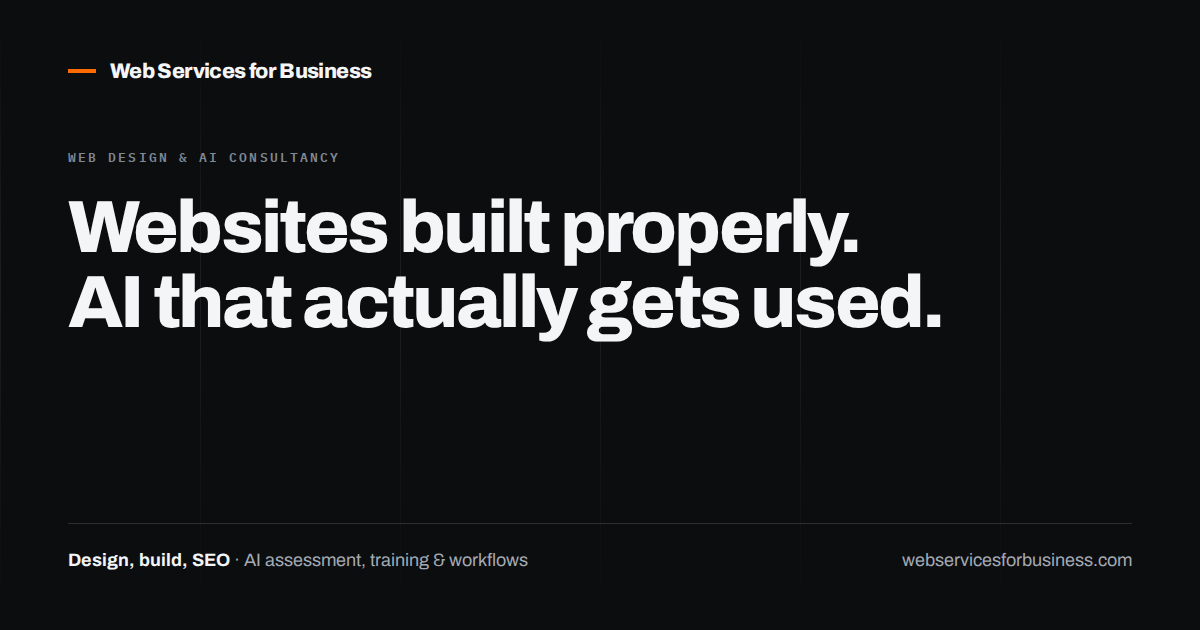
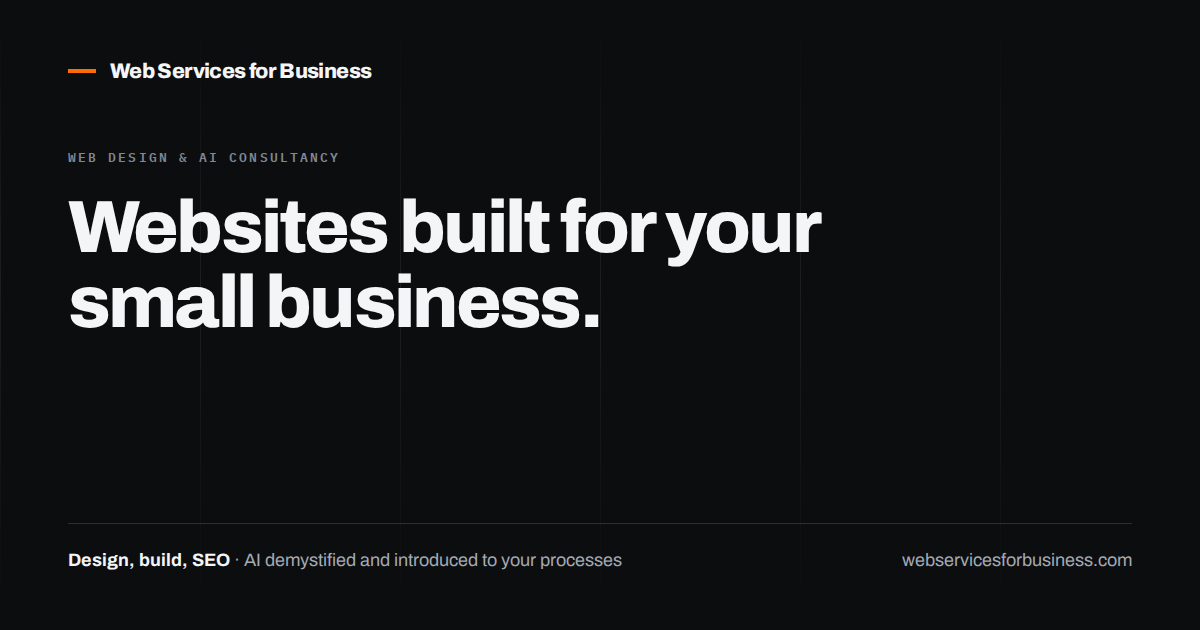
Soften the copy: warmer headline, plainer SEO wording, two lines cut
Copy revisions from Ryan.

- Hero headline: "Websites built properly. AI that actually gets used." ->
  "Websites built for your small business. Help with understanding and using AI."
  The old one read as too aggressive
- Hero subline: "Hand-built sites for businesses that need to be found. AI
  demystified and helpfully introduced to your business and processes."
- "Technical SEO" -> "Technical SEO — we make sure you show up in Google"
- Removed "Two disciplines, one operator." (Services heading)
- Removed "AI work, scoped like engineering." (AI heading)

Where a section heading was removed, its mono eyebrow was promoted to the <h2>
rather than deleted, so the heading hierarchy stays intact and the existing
aria-labelledby references still resolve.

Also carried the new headline into the og:title and twitter:title meta tags and
re-rendered img/og.png, which had the old wording baked in.

The longer headline needed a smaller type scale — .h-xl max 5.1rem -> 4.15rem,
hero max-width 18ch -> 21ch — so it sets in three lines and the CTAs stay above
the fold at 1440x900 instead of being pushed off.

Verified: no horizontal overflow 320-1920px, no console errors, zero WCAG AA
contrast failures, valid JSON-LD, all aria-labelledby targets resolve.

Changed region(s): [[0.0617, 0.3016, 0.8017, 0.5429], [0.2158, 0.8746, 0.5242, 0.9048]]

diff --git a/site/index.html b/site/index.html
@@ -25,7 +25,7 @@
 
 <meta property="og:type" content="website">
 <meta property="og:site_name" content="Web Services for Business">
-<meta property="og:title" content="Websites, built properly. AI that actually gets used.">
+<meta property="og:title" content="Websites built for your small business. Help with understanding and using AI.">
 <meta property="og:description" content="Web design and AI consultancy for growing businesses.">
 <meta property="og:url" content="https://www.webservicesforbusiness.com/">
 <meta property="og:image" content="https://www.webservicesforbusiness.com/img/og.png">
@@ -33,7 +33,7 @@
 <meta property="og:image:height" content="630">
 <meta property="og:image:alt" content="Web Services for Business — websites and practical AI.">
 <meta name="twitter:card" content="summary_large_image">
-<meta name="twitter:title" content="Websites, built properly. AI that actually gets used.">
+<meta name="twitter:title" content="Websites built for your small business. Help with understanding and using AI.">
 <meta name="twitter:description" content="Web design and AI consultancy for growing businesses.">
 <meta name="twitter:image" content="https://www.webservicesforbusiness.com/img/og.png">
 <meta name="theme-color" content="#0C0D0F">
@@ -120,7 +120,7 @@ section[id],#top{scroll-margin-top:5rem}
   text-transform:uppercase}
 .eyebrow{color:var(--text-3)}
 h1,h2,h3{font-weight:800;letter-spacing:-.035em;line-height:1.02}
-.h-xl{font-size:clamp(2.6rem,6.4vw,5.1rem)}
+.h-xl{font-size:clamp(2.1rem,5vw,4.15rem)}
 .h-lg{font-size:clamp(2rem,4vw,3.1rem)}
 .h-md{font-size:clamp(1.25rem,2vw,1.6rem);letter-spacing:-.025em;line-height:1.12}
 .lead{color:var(--text-2);font-size:clamp(1.0625rem,1.5vw,1.25rem);line-height:1.5;max-width:44ch}
@@ -201,7 +201,7 @@ body.locked{overflow:hidden}
   -webkit-mask-image:linear-gradient(180deg,transparent,#000 40%,transparent);
   mask-image:linear-gradient(180deg,transparent,#000 40%,transparent)}
 .hero-in{position:relative;z-index:1}
-.hero h1{margin-top:1.5rem;max-width:18ch}
+.hero h1{margin-top:1.5rem;max-width:21ch}
 .hero .lead{margin-top:1.5rem}
 .hero-ctas{margin-top:2.25rem;display:flex;flex-wrap:wrap;gap:.6rem}
 
@@ -398,8 +398,8 @@ legend{padding:0;margin-bottom:.55rem}
   <div class="hero-grid" aria-hidden="true"></div>
   <div class="wrap hero-in">
     <p class="mono eyebrow rv">Web design &amp; AI consultancy</p>
-    <h1 class="h-xl rv" style="--d:60ms">Websites built properly. AI that actually gets used.</h1>
-    <p class="lead rv" style="--d:120ms">Fast, hand-built sites for businesses that need to be found — and AI systems your team will still be using in six months.</p>
+    <h1 class="h-xl rv" style="--d:60ms">Websites built for your small business. Help with understanding and using AI.</h1>
+    <p class="lead rv" style="--d:120ms">Hand-built sites for businesses that need to be found. AI demystified and helpfully introduced to your business and processes.</p>
     <div class="hero-ctas rv" style="--d:180ms">
       <a class="btn btn-primary" href="#contact">
         Start a project
@@ -435,8 +435,7 @@ legend{padding:0;margin-bottom:.55rem}
 <section class="sec" id="services" aria-labelledby="services-h">
   <div class="wrap">
     <div class="sec-head rv">
-      <p class="mono eyebrow">01 / Services</p>
-      <h2 class="h-lg" id="services-h">Two disciplines, one operator.</h2>
+      <h2 class="mono eyebrow" id="services-h">01 / Services</h2>
     </div>
     <div class="svc">
       <article class="svc-col rv">
@@ -444,7 +443,7 @@ legend{padding:0;margin-bottom:.55rem}
         <h3 class="h-md">Sites that load fast and convert.</h3>
         <ul>
           <li><b>01</b> One-page and multi-page builds</li>
-          <li><b>02</b> Technical SEO</li>
+          <li><b>02</b> Technical SEO — we make sure you show up in Google</li>
           <li><b>03</b> Google Business Profile setup</li>
           <li><b>04</b> Domains, hosting and email</li>
           <li><b>05</b> Copy and layout</li>
@@ -556,11 +555,8 @@ legend{padding:0;margin-bottom:.55rem}
 <section class="sec ai" id="ai" aria-labelledby="ai-h">
   <div class="wrap">
     <div class="sec-head rv">
-      <p class="mono eyebrow">04 / AI</p>
-      <div>
-        <h2 class="h-lg" id="ai-h">AI work, scoped like engineering.</h2>
-        <p class="lead" style="margin-top:1rem">One or two processes made measurably faster, using tools you already pay for.</p>
-      </div>
+      <h2 class="mono eyebrow" id="ai-h">04 / AI</h2>
+      <p class="lead">One or two processes made measurably faster, using tools you already pay for.</p>
     </div>
     <div class="ai-list">
       <article class="ai-row rv"><p class="n">01</p><h3>Readiness assessment</h3><p>Audit of tools, data and risk. Written findings and a ranked action list.</p></article>

diff --git a/site/index.standalone.html b/site/index.standalone.html
@@ -25,7 +25,7 @@
 
 <meta property="og:type" content="website">
 <meta property="og:site_name" content="Web Services for Business">
-<meta property="og:title" content="Websites, built properly. AI that actually gets used.">
+<meta property="og:title" content="Websites built for your small business. Help with understanding and using AI.">
 <meta property="og:description" content="Web design and AI consultancy for growing businesses.">
 <meta property="og:url" content="https://www.webservicesforbusiness.com/">
 <meta property="og:image" content="https://www.webservicesforbusiness.com/img/og.png">
@@ -33,7 +33,7 @@
 <meta property="og:image:height" content="630">
 <meta property="og:image:alt" content="Web Services for Business — websites and practical AI.">
 <meta name="twitter:card" content="summary_large_image">
-<meta name="twitter:title" content="Websites, built properly. AI that actually gets used.">
+<meta name="twitter:title" content="Websites built for your small business. Help with understanding and using AI.">
 <meta name="twitter:description" content="Web design and AI consultancy for growing businesses.">
 <meta name="twitter:image" content="https://www.webservicesforbusiness.com/img/og.png">
 <meta name="theme-color" content="#0C0D0F">
@@ -118,7 +118,7 @@ section[id],#top{scroll-margin-top:5rem}
   text-transform:uppercase}
 .eyebrow{color:var(--text-3)}
 h1,h2,h3{font-weight:800;letter-spacing:-.035em;line-height:1.02}
-.h-xl{font-size:clamp(2.6rem,6.4vw,5.1rem)}
+.h-xl{font-size:clamp(2.1rem,5vw,4.15rem)}
 .h-lg{font-size:clamp(2rem,4vw,3.1rem)}
 .h-md{font-size:clamp(1.25rem,2vw,1.6rem);letter-spacing:-.025em;line-height:1.12}
 .lead{color:var(--text-2);font-size:clamp(1.0625rem,1.5vw,1.25rem);line-height:1.5;max-width:44ch}
@@ -199,7 +199,7 @@ body.locked{overflow:hidden}
   -webkit-mask-image:linear-gradient(180deg,transparent,#000 40%,transparent);
   mask-image:linear-gradient(180deg,transparent,#000 40%,transparent)}
 .hero-in{position:relative;z-index:1}
-.hero h1{margin-top:1.5rem;max-width:18ch}
+.hero h1{margin-top:1.5rem;max-width:21ch}
 .hero .lead{margin-top:1.5rem}
 .hero-ctas{margin-top:2.25rem;display:flex;flex-wrap:wrap;gap:.6rem}
 
@@ -396,8 +396,8 @@ legend{padding:0;margin-bottom:.55rem}
   <div class="hero-grid" aria-hidden="true"></div>
   <div class="wrap hero-in">
     <p class="mono eyebrow rv">Web design &amp; AI consultancy</p>
-    <h1 class="h-xl rv" style="--d:60ms">Websites built properly. AI that actually gets used.</h1>
-    <p class="lead rv" style="--d:120ms">Fast, hand-built sites for businesses that need to be found — and AI systems your team will still be using in six months.</p>
+    <h1 class="h-xl rv" style="--d:60ms">Websites built for your small business. Help with understanding and using AI.</h1>
+    <p class="lead rv" style="--d:120ms">Hand-built sites for businesses that need to be found. AI demystified and helpfully introduced to your business and processes.</p>
     <div class="hero-ctas rv" style="--d:180ms">
       <a class="btn btn-primary" href="#contact">
         Start a project
@@ -433,8 +433,7 @@ legend{padding:0;margin-bottom:.55rem}
 <section class="sec" id="services" aria-labelledby="services-h">
   <div class="wrap">
     <div class="sec-head rv">
-      <p class="mono eyebrow">01 / Services</p>
-      <h2 class="h-lg" id="services-h">Two disciplines, one operator.</h2>
+      <h2 class="mono eyebrow" id="services-h">01 / Services</h2>
     </div>
     <div class="svc">
       <article class="svc-col rv">
@@ -442,7 +441,7 @@ legend{padding:0;margin-bottom:.55rem}
         <h3 class="h-md">Sites that load fast and convert.</h3>
         <ul>
           <li><b>01</b> One-page and multi-page builds</li>
-          <li><b>02</b> Technical SEO</li>
+          <li><b>02</b> Technical SEO — we make sure you show up in Google</li>
           <li><b>03</b> Google Business Profile setup</li>
           <li><b>04</b> Domains, hosting and email</li>
           <li><b>05</b> Copy and layout</li>
@@ -554,11 +553,8 @@ legend{padding:0;margin-bottom:.55rem}
 <section class="sec ai" id="ai" aria-labelledby="ai-h">
   <div class="wrap">
     <div class="sec-head rv">
-      <p class="mono eyebrow">04 / AI</p>
-      <div>
-        <h2 class="h-lg" id="ai-h">AI work, scoped like engineering.</h2>
-        <p class="lead" style="margin-top:1rem">One or two processes made measurably faster, using tools you already pay for.</p>
-      </div>
+      <h2 class="mono eyebrow" id="ai-h">04 / AI</h2>
+      <p class="lead">One or two processes made measurably faster, using tools you already pay for.</p>
     </div>
     <div class="ai-list">
       <article class="ai-row rv"><p class="n">01</p><h3>Readiness assessment</h3><p>Audit of tools, data and risk. Written findings and a ranked action list.</p></article>
